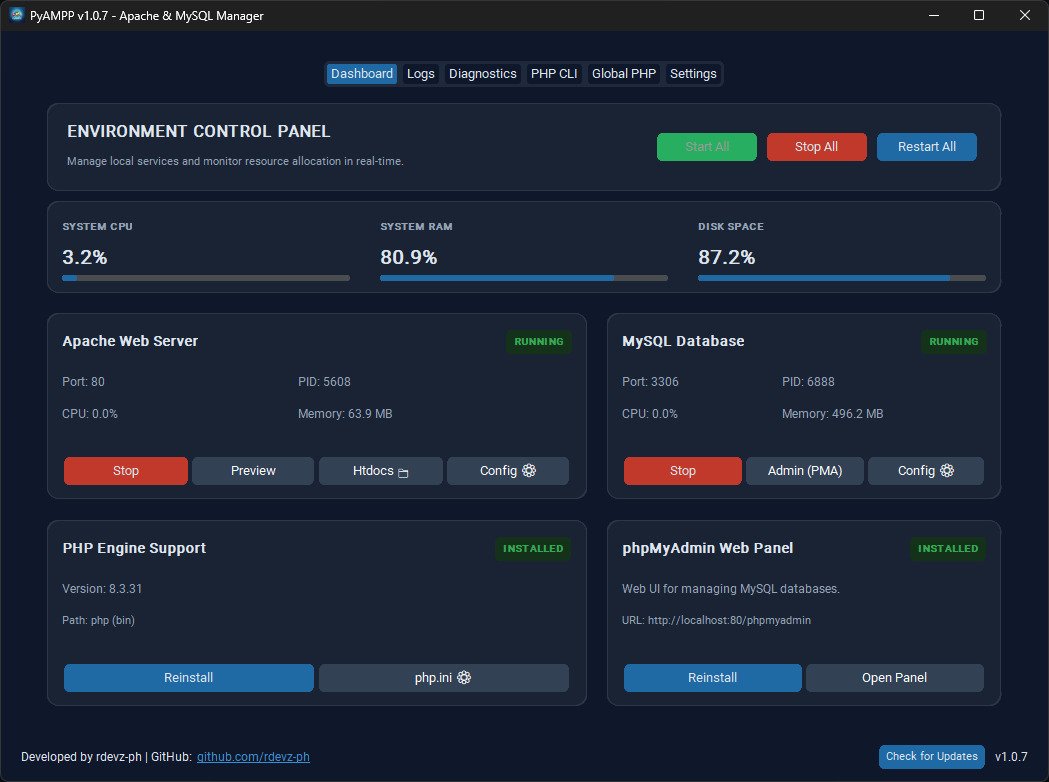
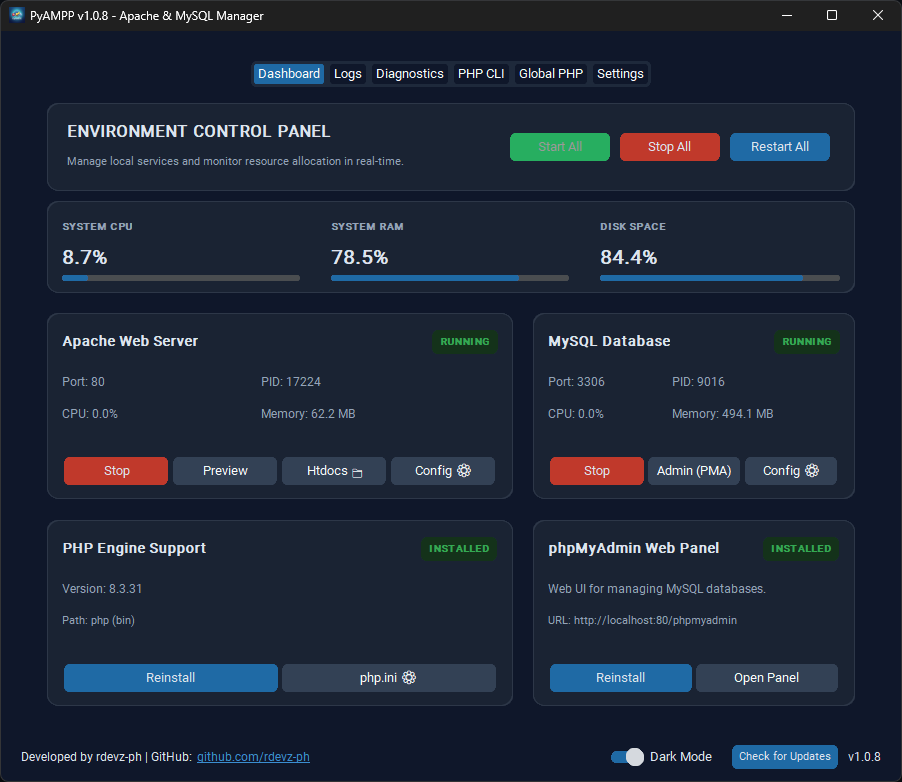
chore: update changelog for v1.0.8 release and modify README, presets, and documentation images

diff --git a/docs/index.html b/docs/index.html
@@ -134,7 +134,7 @@
 
             <section id="presets">
                 <h2>Supported Versions (Presets)</h2>
-                <p>PyAMPP v1.0.7 supports a wide range of verified component versions out of the box. For transparency,
+                <p>PyAMPP v1.0.8 supports a wide range of verified component versions out of the box. For transparency,
                     all official binary download URLs are documented in the <code>presets.json</code> file within the
                     repository.</p>
                 <div class="preset-container">

diff --git a/CHANGELOG.md b/CHANGELOG.md
@@ -2,6 +2,14 @@
 
 All notable changes to PyAMPP will be documented in this file.
 
+## [1.0.8] - 2026-06-12
+### Added
+* **Dynamic Theme Toggle**: Introduced a Light/Dark Mode switch in the application footer for instant theme switching.
+* **Auto-Run on Startup**: Added a setting to automatically launch PyAMPP when Windows starts via registry integration.
+* **Unified UI Theming**: Fixed unstyled tab backgrounds (Logs, PHP CLI, Global PHP, Settings) to seamlessly match the custom premium ocean-blue dashboard cards.
+* **Readable Light Mode Tabs**: Fixed tab header text color contrast issues when using the Light Mode theme.
+* **Automated SSL Setup**: The Setup Wizard and Updater now automatically execute the SSL Auto-Fix routine upon Apache extraction, generating self-signed certificates and enabling HTTPS to prevent first-time startup errors.
+
 ## [1.0.7] - 2026-05-30
 ### Added
 * **Diagnostics & SSL Checker Tab**: Integrated a real-time HTTP reachability/latency scanner, MySQL database TCP tests, PHP CLI execution checks, and a detailed SSL certificate inspector.

diff --git a/README.md b/README.md
@@ -45,7 +45,7 @@ The latest stable version of PyAMPP can be downloaded from the official [Release
 
 ## Supported Versions (Presets)
 
-PyAMPP v1.0.7 supports a wide range of verified component versions. For full transparency, you can verify all official binary download URLs in the [presets.json](presets.json) file:
+PyAMPP v1.0.8 supports a wide range of verified component versions. For full transparency, you can verify all official binary download URLs in the [presets.json](presets.json) file:
 
 - **PHP:** 8.5.6 (VS17), 8.4.21, 8.3.31, 8.2.31, 8.1.34, 8.0.30 (Archive), and 7.4.33 (Archive).
 - **Apache:** 2.4.66 (VS17).
